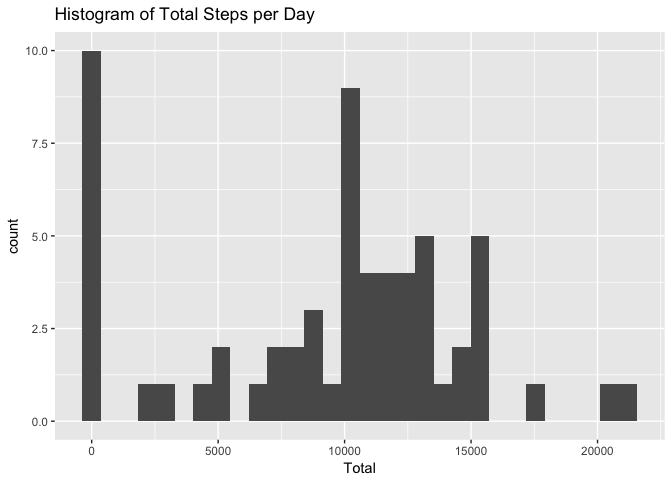
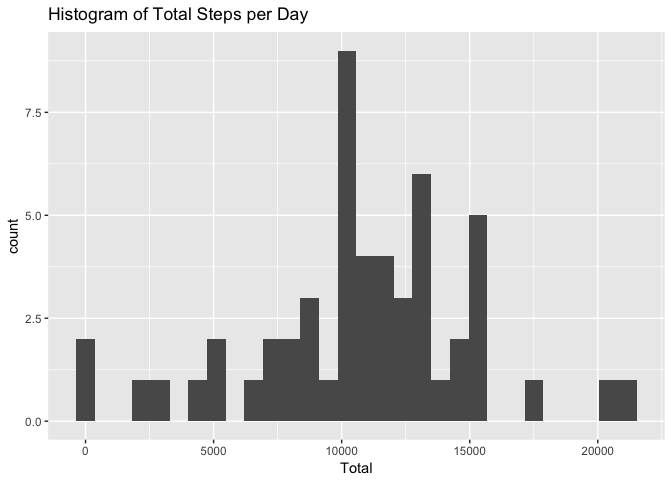
Correction on old files

diff --git a/PA1_template.html b/PA1_template.html
@@ -143,20 +143,21 @@ activity$date &lt;- as.Date(activity$date)</code></pre>
 total &lt;- sum(activity$steps, na.rm = T) 
 
 #plot histogram of daily total
-temp &lt;- group_by(activity, date)
+hold &lt;- na.omit(activity)
+temp &lt;- group_by(hold, date)
 dayTot &lt;- summarize(temp, Total = sum(steps, na.rm = T))
 ggplot(dayTot, aes(Total)) + geom_histogram() + ggtitle(&quot;Histogram of Total Steps per Day&quot;)</code></pre>
 <pre><code>## `stat_bin()` using `bins = 30`. Pick better value with `binwidth`.</code></pre>
[2 lines of base64/hex data omitted]
 <pre class="r"><code>#calculate mean daily total and median daily total
 meanSteps &lt;- mean(dayTot$Total, na.rm = T)
 medSteps &lt;- median(dayTot$Total, na.rm = T)</code></pre>
 <p>The overall total number of steps is 570608.</p>
-<p>The mean total number of steps taken per day is 9354.2295082 steps and the median total number of steps taken per day is 10395 steps.</p>
+<p>The mean total number of steps taken per day is 1.076618910^{4} steps and the median total number of steps taken per day is 10765 steps.</p>
 </div>
 <div id="question-2-average-daily-activity-pattern" class="section level2">
 <h2>Question 2: Average Daily Activity Pattern</h2>
-<pre class="r"><code>temp &lt;- group_by(activity, interval)
+<pre class="r"><code>temp &lt;- group_by(hold, interval)
 dailyAct &lt;- summarize(temp, Average = mean(steps, na.rm = T))
 ggplot(dailyAct, aes(y = Average, x = interval)) + geom_line() + 
     xlab(&quot;5-Min Interval&quot;) + ggtitle(&quot;Average Daily Activity Pattern&quot;) +
@@ -197,7 +198,7 @@ newMedSteps &lt;- median(dayTot$Total, na.rm = T)
 dif = newTotal - total</code></pre>
 <p>The number of rows with missing values is 2304.</p>
 <p>The new total number of steps is 6.567375110^{5} which is 8.612950910^{4} more steps than the old total number of steps, 570608.</p>
-<p>Also, the new median number of steps per day is 1.076618910^{4} and the new mean is 1.076618910^{4} which are both higher than their previous versions.</p>
+<p>Also, the new median number of steps per day is 1.076618910^{4} and the new mean is 1.076618910^{4}. The mean is the same while the median is slightly higher.</p>
 <pre class="r"><code>## Create a factor variable that splits dates into weekend and weekday
 activity$dayType &lt;- &quot;Weekend&quot;
 check &lt;- c(&quot;Monday&quot;, &quot;Tuesday&quot;, &quot;Wednesday&quot;, &quot;Thursday&quot;, &quot;Friday&quot;)

diff --git a/PA1_template.md b/PA1_template.md
@@ -44,7 +44,8 @@ activity$date <- as.Date(activity$date)
 total <- sum(activity$steps, na.rm = T) 
 
 #plot histogram of daily total
-temp <- group_by(activity, date)
+hold <- na.omit(activity)
+temp <- group_by(hold, date)
 dayTot <- summarize(temp, Total = sum(steps, na.rm = T))
 ggplot(dayTot, aes(Total)) + geom_histogram() + ggtitle("Histogram of Total Steps per Day")
 ```
@@ -62,12 +63,12 @@ medSteps <- median(dayTot$Total, na.rm = T)
 ```
 The overall total number of steps is 570608.
 
-The mean total number of steps taken per day is 9354.2295082 steps and the median total number of steps taken per day is 10395 steps.
+The mean total number of steps taken per day is 1.0766189\times 10^{4} steps and the median total number of steps taken per day is 10765 steps.
 
 ## Question 2: Average Daily Activity Pattern
 
 ```r
-temp <- group_by(activity, interval)
+temp <- group_by(hold, interval)
 dailyAct <- summarize(temp, Average = mean(steps, na.rm = T))
 ggplot(dailyAct, aes(y = Average, x = interval)) + geom_line() + 
     xlab("5-Min Interval") + ggtitle("Average Daily Activity Pattern") +
@@ -124,7 +125,7 @@ The number of rows with missing values is 2304.
 
 The new total number of steps is 6.5673751\times 10^{5} which is 8.6129509\times 10^{4} more steps than the old total number of steps, 570608. 
 
-Also, the new median number of steps per day is 1.0766189\times 10^{4} and the new mean is 1.0766189\times 10^{4} which are both higher than their previous versions. 
+Also, the new median number of steps per day is 1.0766189\times 10^{4} and the new mean is 1.0766189\times 10^{4}. The mean is the same while the median is slightly higher.
 
 
 
